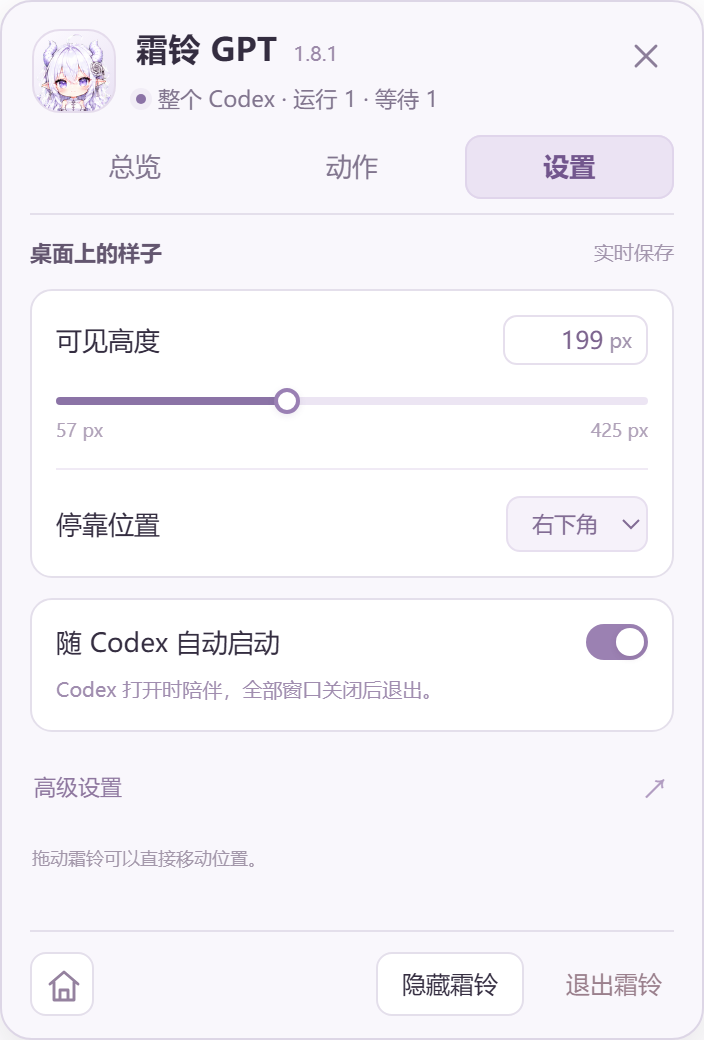
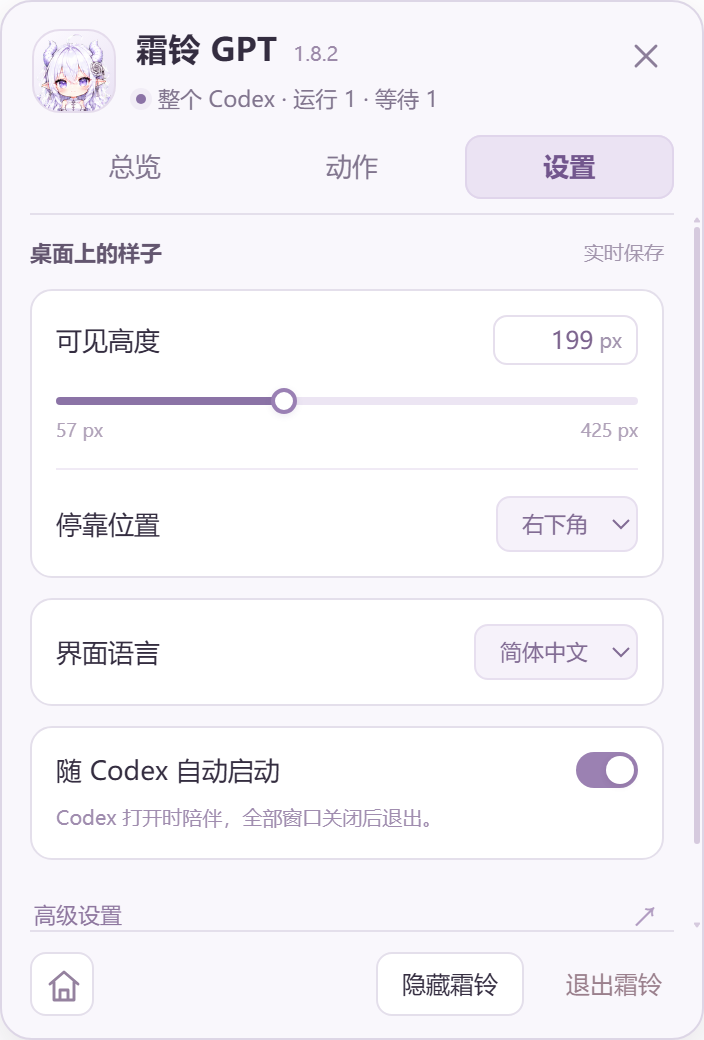
Record portable and trilingual UI verification [skip ci]

diff --git a/docs/media/README.md b/docs/media/README.md
@@ -22,7 +22,7 @@ Each 368×400 GIF loops independently at the original clip timing. A shared safe
 - [Actions / 动作 / 動作](panel-actions.png)
 - [Settings / 设置 / 設定](panel-settings.png)
 
-Captured from the production panel in an isolated hidden Electron window, at 704×1040 physical pixels for the 352×520 CSS layout (native 200% rendering). Chat names, token counts and account percentages are synthetic demonstration data. The capture uses in-memory fixtures, with no connection to the running pet or real account/chat endpoints. Current interface language: Simplified Chinese.
+Captured from the production panel in an isolated hidden Electron window, at 704×1040 physical pixels for the 352×520 CSS layout (native 200% rendering). Chat names, token counts and account percentages are synthetic demonstration data. The capture uses in-memory fixtures, with no connection to the running pet or real account/chat endpoints. These screenshots use Simplified Chinese; Settings also supports Traditional Chinese and English.
 
 截图使用真实面板与演示数据，不包含真实聊天或账户用量；没有修改现有桌宠设置。
 
